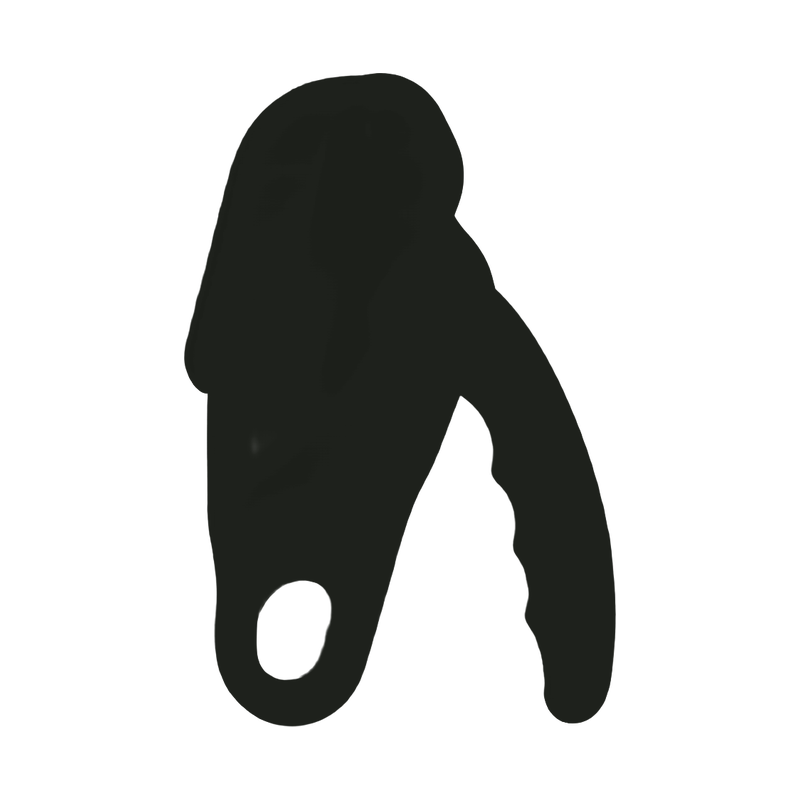
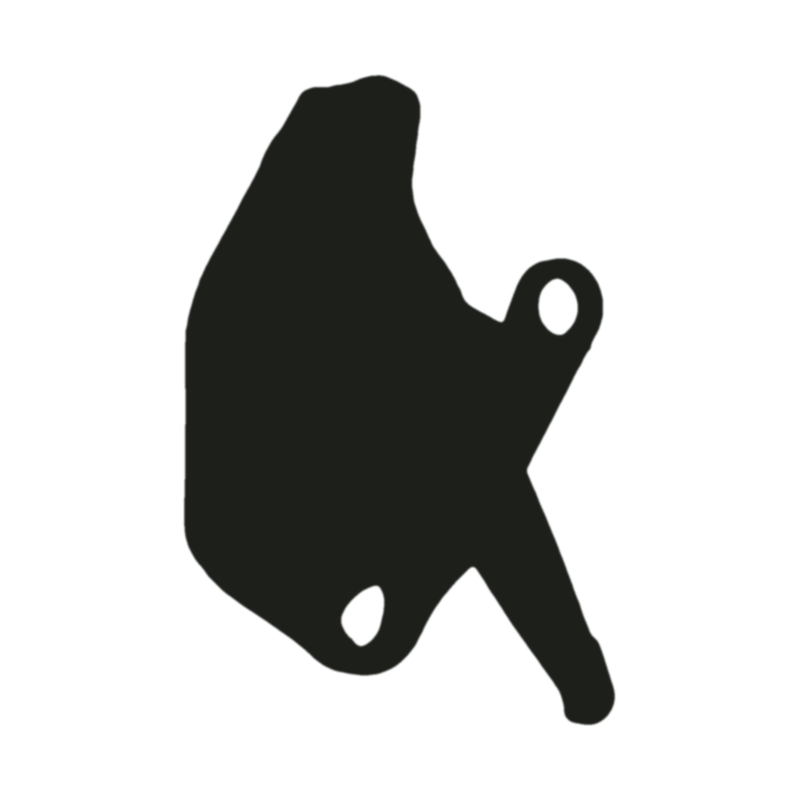
Shop: descender silhouette is now the CMC Clutch
Claude-Session: https://claude.ai/code/session_01Hw4oGNdbow2Dwbdkj4wtSm

Changed region(s): [[0.2188, 0.0938, 0.7812, 0.9062], [0.2188, 0.3438, 0.25, 0.4375]]

diff --git a/products.html b/products.html
@@ -118,7 +118,7 @@
         <span class="soon">Coming soon</span>
       </article>
       <article class="product" data-id="descender" data-name="Self-braking descender" data-price="420">
-        <div class="pshot ph"><img src="assets/img/shop/descender-soon.png" alt="Silhouette of the Self-braking descender, coming soon" loading="lazy" width="800" height="800"></div>
+        <div class="pshot ph"><img src="assets/img/shop/descender-soon.png?v=2" alt="Silhouette of the Self-braking descender, coming soon" loading="lazy" width="800" height="800"></div>
         <div class="pmeta"><h3>Self-braking descender</h3></div>
         <p>For controlled descents on the working line.</p>
         <span class="soon">Coming soon</span>
